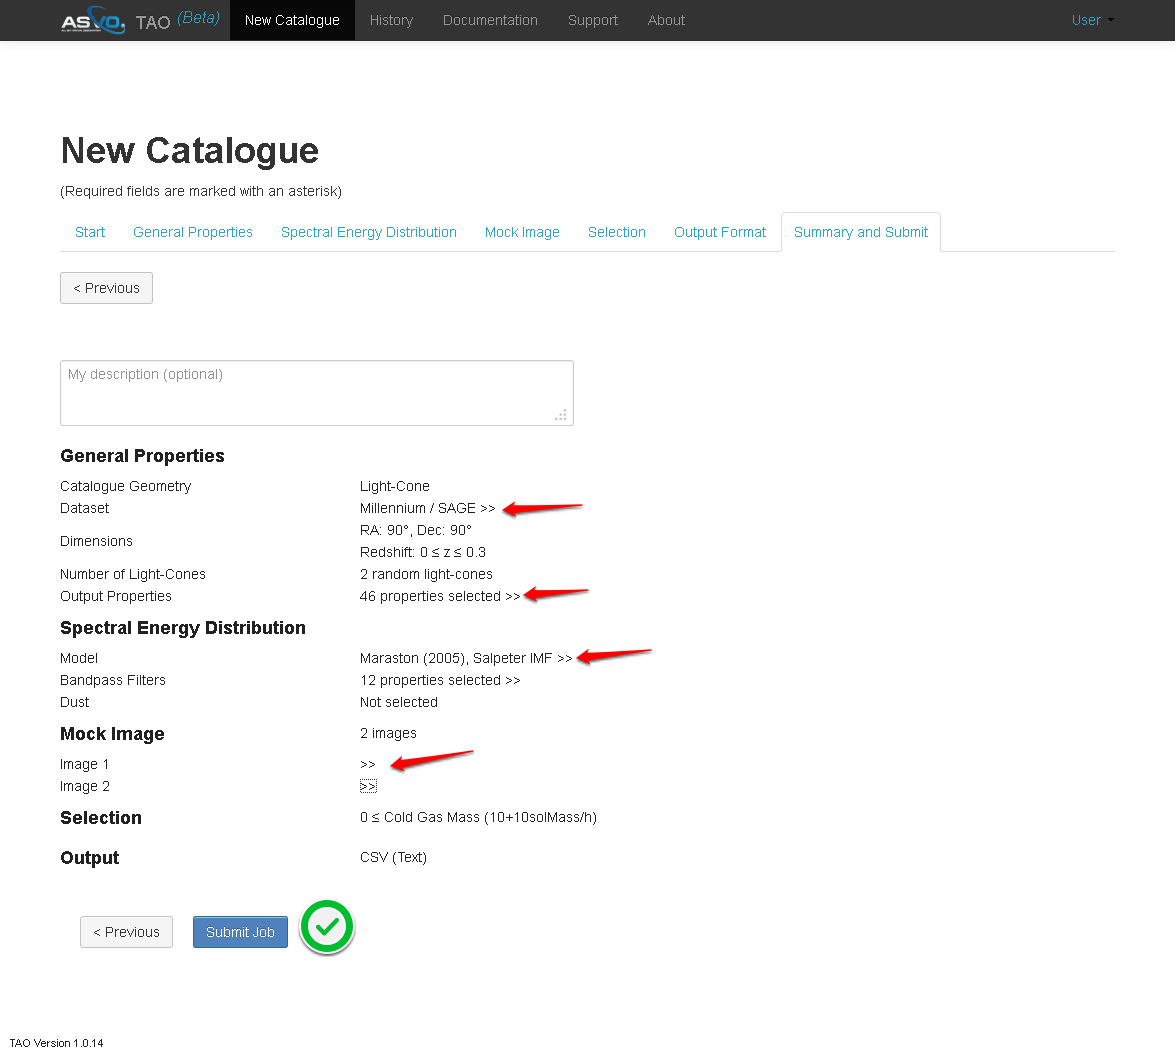
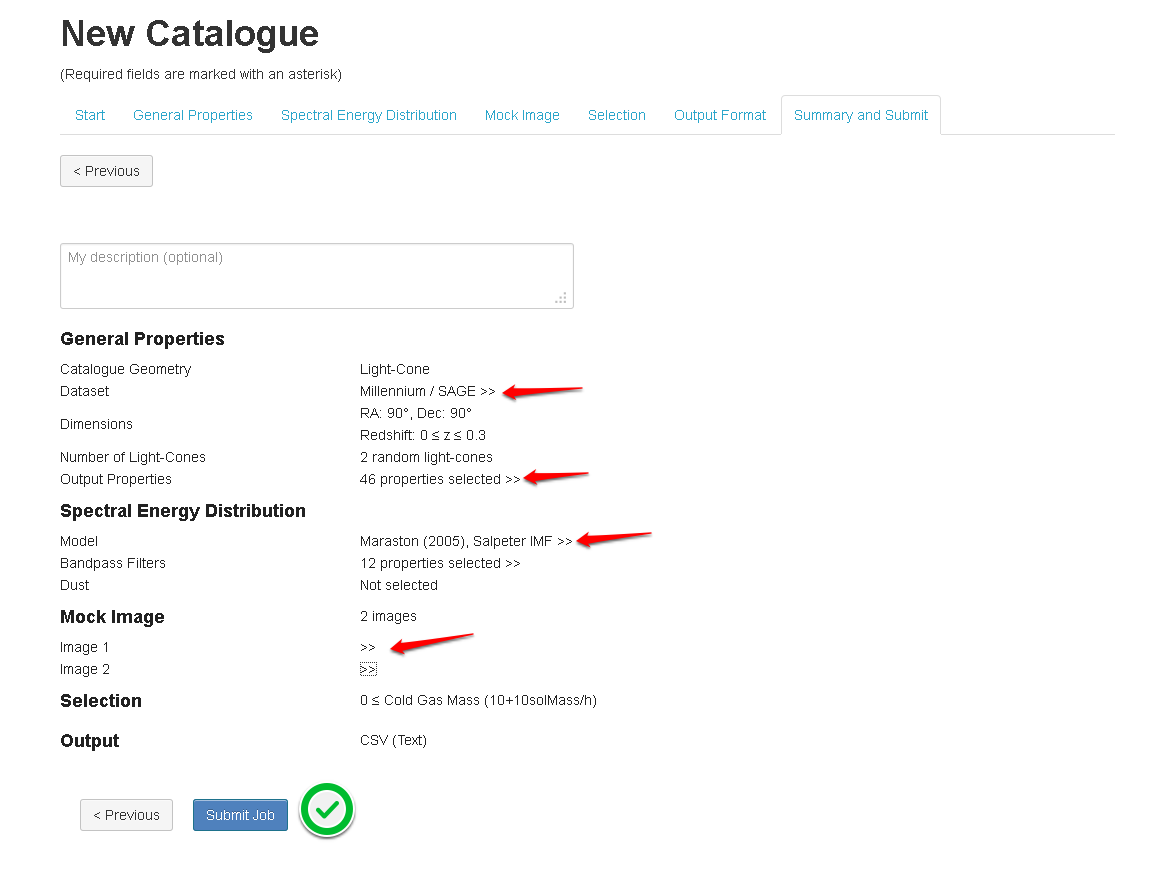
Fixing image size and partition user guide

diff --git a/docs/source/user-manual/wizard_general_properties.rst b/docs/source/user-manual/wizard_general_properties.rst
@@ -1,0 +1,63 @@
+
+General Properties
+===================
+
+The following figures assume that the user selected to start a new catalogue. So, there is no pre-selection of pre-filled values. 
+The following are the main parts of the General properties form (as shown in the first figure). 
+ 
+1. **Navigation buttons**: This will help the user to navigate forward and backword between different parts of the Mock Galaxy Factory.
+2. **Information panels**: On the right of the form and it is used to provide additional scientific information (or meta-data) about the user's current selection.
+3. **Filter field**: it is used to filter the shown properties based on the user entered value
+4. **Properties Selection/Removal buttons**: used to include/remove properties to/from the selected properties list.
+
+.. figure:: ../_static/screenshots/TAO-Mock_Galaxy_Factory2.png
+   :alt: Mock Galaxy Factory - General Properties
+
+The use has the option to select between two different *catalogue Geometries*: 
+
+* Box: Returns a single snapshot (redshift) of the simulated universe.
+* Light-cone: Maps the geometry of the simulated data cube on to the observer cone. 
+
+Also, The use can choose to select between the following different *Dark Matter Simulation*:
+
+* Mini-Millennium
+* Millennium
+* Bloshoi  
+
+Additionally, the user has the option to select between the following *Galaxy Models*:
+
+* The "Semi-Analytic Galaxy Evolution" (SAGE) galaxy model (Croton et al. 2006)
+* Galacticus (Benson 2010)
+   
+.. figure:: ../_static/screenshots/TAO-Mock_Galaxy_Factory3.png
+   :alt: Mock Galaxy Factory - Catalogue Geometry 
+   
+Based on the user selection of *Dark Matter simulation*, *Galaxy Model*, and Geometry Size, The system estimates the requested job size (an indication for how big the job is). 
+Due to the scheduling and resources availability there might not be a direct mapping between this estimate and the actual job's execution time. Though, it should be used by the user as an estimation for how much resources this job will request from the system.
+     
+   
+.. figure:: ../_static/screenshots/TAO-Mock_Galaxy_Factory4.png
+   :alt: Mock Galaxy Factory - General Properties
+
+**Light-Cone Geometry**   
+
+* Right Ascension, Declination and Redshift
+	Defines the dimensions of the light-cone.
+* Unique / Random
+	If the dimensions of the light-cone exceed the dimensions of the simulation, the simulated space is repeated out to the required dimensions.  Selecting between Unique and Random light-cones specifies how the simulated space is expanded. Selecting Unique ensures that no volume from the original simulation space is used multiple times in the resulting light-cone. Selecting Random allows the universe to be expanded indefintely, with the original cube randomly rotated each time it is repeated to minimise any patterns appearing through repetition.
+	The UI will compare the volume of the light-cone requested against the simulation volume. 
+	If the volume of the light-cone is bigger than the simulation volume and the user selected the unique option, the UI will show an error. In this case the user should revise his selection. 
+
+   
+.. figure:: ../_static/screenshots/TAO-Mock_Galaxy_Factory5.png
+   :alt: Mock Galaxy Factory - Unique Light-Cone
+   
+.. figure:: ../_static/screenshots/TAO-Mock_Galaxy_Factory6.png
+   :alt: Mock Galaxy Factory - Random Light-Cone 
+   
+Then, the user should select from the available-properties-list the properties he wants to include in his output file. The information panel (on the right) shows the details of the currently selected property including its data unit.
+   
+   
+.. figure:: ../_static/screenshots/TAO-Mock_Galaxy_Factory7.png
+   :alt: Mock Galaxy Factory - General Properties   
+   

diff --git a/docs/source/user-manual/wizard_history.rst b/docs/source/user-manual/wizard_history.rst
@@ -1,0 +1,33 @@
+Manage Submitted Jobs (History)
+===============================
+
+After submitting the job, the UI will forward the user to the Job history page. It can be accessed later using the *history* link in the interface top-bar.
+
+For each of the jobs, the history table display its submission date/time, its ID, the user description (if exists), and its current status.
+
+Once a job has been submitted in TAO it will go through a number of states before being ready to download:
+
+=========== ======================================================
+State
+=========== ======================================================
+HELD        The job is held in the TAO queue and will not be executed until set to submitted by an administrator.
+SUBMITTED   The job has been submitted in the web ui and awaiting processing by the workflow.
+QUEUED      The job has been submitted for processing on the HPC.
+IN PROGRESS The job is currently being executed by the HPC.
+COMPLETED   The job has completed and is ready for download.
+ERROR       The job terminated abnormally.
+=========== ======================================================
+
+ 
+
+
+.. figure:: ../_static/screenshots/TAO-Mock_Galaxy_Factory21.png
+
+
+The user can follow the job ID link to view more details about the job and to Stop/Delete the job. He can also download a Job summary in text format or a TAO job description (in XML format).
+The XML (params.xml) can be used later on to re-generate this job. 
+
+.. figure:: ../_static/screenshots/TAO-Mock_Galaxy_Factory22.png
+
+
+.. figure:: ../_static/screenshots/TAO-Mock_Galaxy_Factory23.png

diff --git a/docs/source/user-manual/wizard_selection_output.rst b/docs/source/user-manual/wizard_selection_output.rst
@@ -1,0 +1,31 @@
+Selection (Data Filter)
+=======================
+
+TAO encourages the user to put at maximum one filter over the selected data to minimize the output size. The selection step is mandatory. The user is required to select a global data selection using one of the output fields ( one is selected by default). The user can select to add a lower bound one, an upper bound only, or both. 
+
+
+.. figure:: ../_static/screenshots/TAO-Mock_Galaxy_Factory14.png
+
+
+
+Output Format
+=============
+TAO supports four output formats for the output of the Light-cone and SED modules. These formats are:
+
+* CSV
+* FITS
+* HDF5
+* VOTable (XML)
+
+Please note that the Mock Image module output format is selected within the Mock Image module form.
+
+If you would like to view the data and perform general visualisations the VOTable and FITS format files can be read by `TOPCAT <http://www.star.bris.ac.uk/~mbt/topcat/>`_
+
+If you need to write some code to do more detailed analysis, sample scripts demonstrating how to access the data are avilable in the :ref:`script-lib`.
+
+
+ 
+
+.. figure:: ../_static/screenshots/TAO-Mock_Galaxy_Factory15.png
+
+

diff --git a/docs/source/user-manual/wizard_mock_image.rst b/docs/source/user-manual/wizard_mock_image.rst
@@ -1,0 +1,18 @@
+
+Mock Image
+==========
+
+If the user enables the SED module, he can use the output of the SED module to general mock images using `SkyMaker <http://www.astromatic.net/software/skymaker>`_. The image generation module enable the user to use one (or more) cones to generate multiple images.He can also select the Magnitude field to be used to generate this image and the output format.     
+In case the user selected to generate more than one light-cone in the first module, he can generate images with different paramters for each of these cones by selecting the *sub-cone index*.
+
+The fields sub-cone index and Magnitude field are automatically populated based on the user selections in the previous modules.
+
+
+.. figure:: ../_static/screenshots/TAO-Mock_Galaxy_Factory11.png
+
+
+
+.. figure:: ../_static/screenshots/TAO-Mock_Galaxy_Factory12.png
+
+   
+.. figure:: ../_static/screenshots/TAO-Mock_Galaxy_Factory13.png

diff --git a/docs/source/user-manual/wizard_sed.rst b/docs/source/user-manual/wizard_sed.rst
@@ -1,0 +1,21 @@
+Spectral Energy Distribution
+============================
+
+By default, the Spectral Energy Distribution (SED) module is disabled. So, it is an optional post-processing for the light-cone module.
+
+.. figure:: ../_static/screenshots/TAO-Mock_Galaxy_Factory8.png
+
+
+In order to apply the SED module, the user needs to select:
+
+* Single stellar population model 
+* Output Magnitudes (Band pass filters)
+* Dust model ( optional))
+
+ 
+.. figure:: ../_static/screenshots/TAO-Mock_Galaxy_Factory9.png
+
+
+The user can use the "Filter field" to narrow down the selection in the Available list. as shown in the following figure.
+   
+.. figure:: ../_static/screenshots/TAO-Mock_Galaxy_Factory10.png

diff --git a/docs/source/user-manual/wizard_start.rst b/docs/source/user-manual/wizard_start.rst
@@ -1,0 +1,25 @@
+Start
+=====
+
+Mock Galaxy Factory enables you to create a *Mock Catalogue* using one of three options as shown in the following figure:
+
+* Create a new catalogue
+* Create a catalouge based on an old TAO catalouge (Re-generate Catalogue)
+
+
+.. figure:: ../_static/screenshots/TAO-Mock_Galaxy_Factory1.png
+
+
+* Load a pre-defined catalogue preset (See the following figure). The current available presets are:
+	
+	* CANDELS Mock Cone
+	* DEEP2 Mock Cone
+	* SDSS Mock Cone
+	* GAMA Mock Cone
+	* SkyMapper Mock Cone
+
+On the right panel, you can find a summary about each of these presets.
+
+.. figure:: ../_static/screenshots/TAO-Mock_Galaxy_Factory24.png
+
+   

diff --git a/docs/source/user-manual/wizard_summary.rst b/docs/source/user-manual/wizard_summary.rst
@@ -1,0 +1,20 @@
+Summary and Submit
+===================
+
+The final step shows a summary for the selected job paramters. It also give the user the chance to add a job description. 
+
+.. figure:: ../_static/screenshots/TAO-Mock_Galaxy_Factory16.png
+
+   
+.. figure:: ../_static/screenshots/TAO-Mock_Galaxy_Factory18.png
+
+   
+.. figure:: ../_static/screenshots/TAO-Mock_Galaxy_Factory19.png
+
+
+The user will not be able to submit the job if the UI validation fails at any points. He can check the validation error by following the *click to see errors* link.
+
+   
+.. figure:: ../_static/screenshots/TAO-Mock_Galaxy_Factory20.png
+
+

diff --git a/docs/source/user-manual/scriptlib.rst b/docs/source/user-manual/scriptlib.rst
@@ -1,7 +1,7 @@
 .. _script-lib:
 
-Script Library
-==============
+Handling TAO Output Forrmats
+============================
 
 The script archive below demonstrates how to access the mock catalogues generated by TAO.  The scripts are not intended to be useful as they stand (they simply print the file contents in space separated format), but as a starting point to assist you develop programs to further analyse the results.
 

diff --git a/docs/source/user-manual/index.rst b/docs/source/user-manual/index.rst
@@ -8,13 +8,14 @@ Detailed information on using TAO is available in the sections listed below.
    :maxdepth: 2
 
    register
-   wizard
-   overview
-   telescope
-   lightcone
-   sed
-   mockimage
-   output
+   wizard_start
+   wizard_general_properties
+   wizard_sed
+   wizard_mock_image
+   wizard_selection_output
+   wizard_summary
+   wizard_history   
    scriptlib
    ../tap/index
+
 
